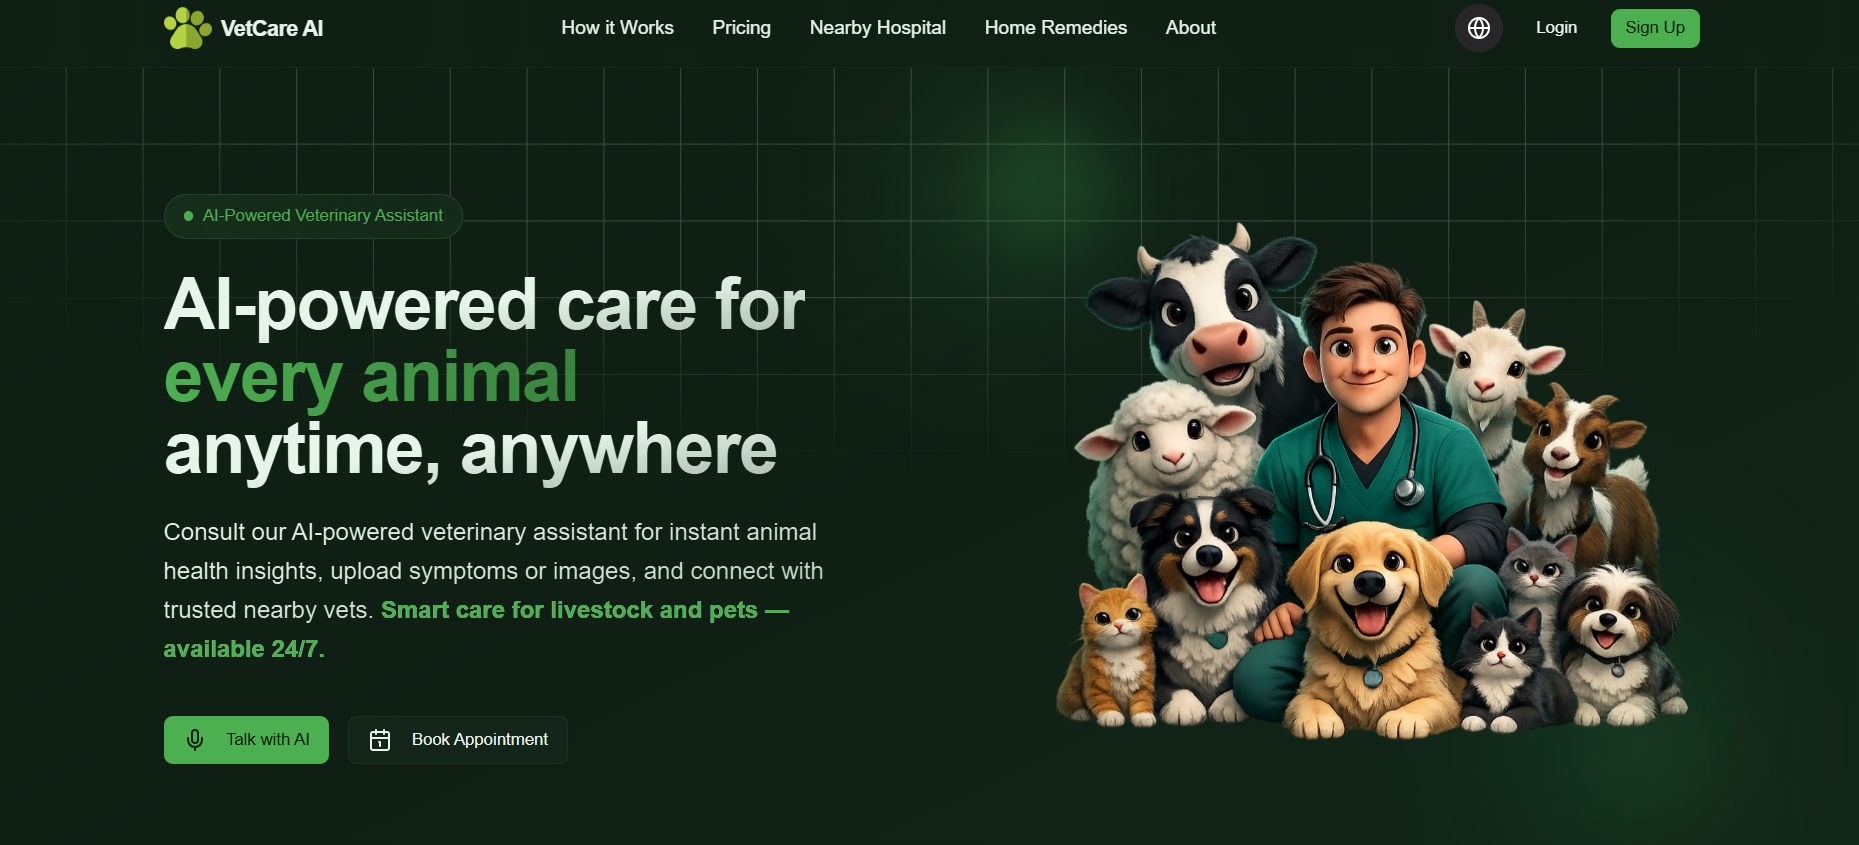
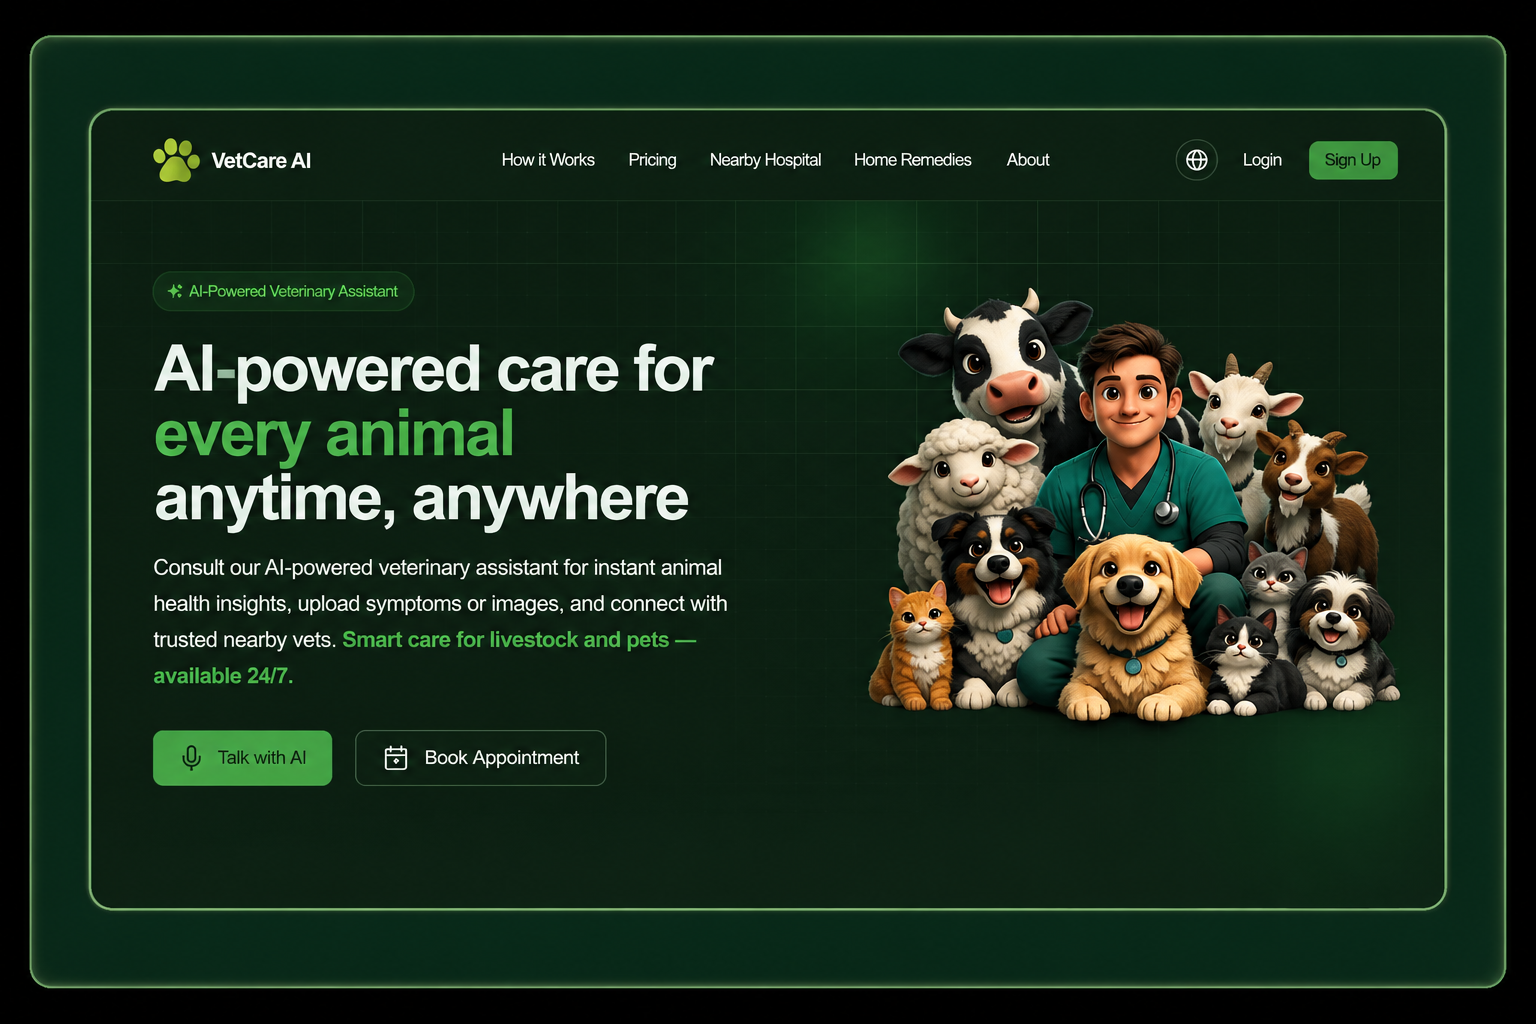
feat: add new projects to portfolio and integrate typewriter effect in Hero component

diff --git a/src/components/Hero.jsx b/src/components/Hero.jsx
@@ -1,69 +1,245 @@
 // src/components/Hero.jsx
 
 import { useEffect, useState } from "react";
-import { styles } from "../styles";
+import { useTypewriter, Cursor } from "react-simple-typewriter";
+import { ArrowUpRight, Download } from "lucide-react";
 
 const Hero = () => {
-  
-  const [isMobile, setIsMobile] = useState(false);
+
+  /* ================= TYPEWRITER ================= */
+
+  const [text] = useTypewriter({
+    words: [
+      "Full Stack Developer",
+      "React Engineer",
+      "AI Enthusiast",
+      
+    ],
+    loop: true,
+    typeSpeed: 30,
+    deleteSpeed: 10,
+    delaySpeed: 10,
+  });
+
+  /* ================= JSON ================= */
+
+  const jsonContent = `{
+  "name": "Abhay",
+  "role": "Full Stack Dev",
+  "stack": ["React", "Next", "Node],
+  "focus": "AI + Vibe Coding",
+  "status": "Available"
+}`;
+
+  const [typedJson, setTypedJson] = useState("");
+
+  /* ================= JSON TYPING ================= */
 
   useEffect(() => {
-    const mediaQuery = window.matchMedia("(max-width: 768px)");
-    setIsMobile(mediaQuery.matches);
 
-    const handleResize = (event) => setIsMobile(event.matches);
-    mediaQuery.addEventListener("change", handleResize);
+    let index = 0;
 
-    return () => mediaQuery.removeEventListener("change", handleResize);
+    const startTyping = () => {
+
+      const interval = setInterval(() => {
+
+        setTypedJson(jsonContent.substring(0, index));
+
+        index++;
+
+        if (index > jsonContent.length) {
+
+          clearInterval(interval);
+
+          setTimeout(() => {
+
+            index = 0;
+            setTypedJson("");
+
+            startTyping();
+
+          }, 1800);
+        }
+
+      }, 30);
+    };
+
+    startTyping();
+
   }, []);
 
   return (
-    <section className="relative w-full h-screen mx-auto">
-      <div
-        className={`absolute inset-0 top-[100px] max-w-7xl mx-auto ${styles.paddingX} flex flex-col sm:flex-row items-start gap-5`}
-      >
-        {/* Left Line */}
-        <div className="flex flex-col justify-center items-center mt-51">
-          <div className="w-5 h-5 rounded-full bg-[#915EFF]" />
-          <div className="w-1 sm:h-80 h-40 violet-gradient" />
-        </div>
 
-        {/* Text + Buttons */}
-        <div className="flex flex-col gap-4 mb-6 sm:mb-0">
-          <div>
-           <h1 className={`${styles.heroHeadText} text-white leading-tight`}>
-  <span className="whitespace-nowrap">
-    Hi, I'm <span className="text-[#915EFF]">Abhay</span>
-  </span>
-  <br />
-  <span className="text-[#915EFF] block">Kumar Yadav</span>
-</h1>
+    <section className="relative min-h-screen overflow-hidden bg-[#030014] text-white">
 
+      {/* ================= BACKGROUND ================= */}
 
-            <p className={`${styles.heroSubText} mt-4 text-white-100`}>
-              Full-Stack Developer
-              <br className="sm:block hidden" />
+      <div className="absolute inset-0 overflow-hidden">
+
+        {/* GRID */}
+        <div className="absolute inset-0 bg-[linear-gradient(to_right,#ffffff05_1px,transparent_1px),linear-gradient(to_bottom,#ffffff05_1px,transparent_1px)] bg-[size:55px_55px]" />
+
+        {/* GLOW */}
+        <div className="absolute top-[-10%] left-[-10%] h-[420px] w-[420px] rounded-full bg-cyan-500/10 blur-[130px]" />
+
+        <div className="absolute bottom-[-10%] right-[-10%] h-[420px] w-[420px] rounded-full bg-[#915EFF]/15 blur-[130px]" />
+
+        {/* PARTICLES */}
+        {[...Array(25)].map((_, i) => (
+          <span
+            key={i}
+            className="absolute h-[2px] w-[2px] rounded-full bg-cyan-300/60 animate-pulse"
+            style={{
+              top: `${Math.random() * 100}%`,
+              left: `${Math.random() * 100}%`,
+            }}
+          />
+        ))}
+      </div>
+
+      {/* ================= MAIN ================= */}
+
+      <div className="relative z-10 mx-auto flex min-h-screen max-w-7xl flex-col items-center justify-center gap-16 px-6 py-24 lg:flex-row">
+
+        {/* ================= LEFT ================= */}
+
+        <div className="flex-1 text-center lg:text-left">
+
+          {/* BADGE */}
+          <div className="mb-6 inline-flex items-center gap-2 rounded-full border border-cyan-400/20 bg-cyan-400/5 px-4 py-2 backdrop-blur-xl">
+
+            <span className="h-2 w-2 rounded-full bg-cyan-400 animate-pulse" />
+
+            <p className="text-[10px] sm:text-[11px] uppercase tracking-[0.3em] text-cyan-300">
+              AVAILABLE FOR WORK
             </p>
           </div>
 
-          {/* Buttons */}
-          <div>
+          {/* HEADING */}
+        <h1 className="text-5xl sm:text-6xl md:text-7xl font-black leading-[0.95] tracking-[-3px]">
+
+  <span className="block text-zinc-500 text-2xl sm:text-3xl md:text-4xl font-medium mb-3">
+    Hi, I'm
+  </span>
+
+  <span className="bg-gradient-to-r from-white via-zinc-200 to-zinc-500 bg-clip-text text-transparent">
+    Abhay
+  </span>{" "}
+
+  <span className="bg-gradient-to-r from-zinc-300 via-zinc-500 to-zinc-700 bg-clip-text text-transparent">
+    Kumar Yadav
+  </span>
+
+</h1>
+
+          {/* TYPEWRITER */}
+          <div className="mt-6 flex items-center justify-center gap-2 lg:justify-start">
+
+            <span className="h-2 w-2 rounded-full bg-cyan-400 animate-pulse" />
+
+            <p className="font-mono text-base sm:text-lg text-zinc-300">
+
+              {text}
+
+              <Cursor cursorColor="#22d3ee" />
+            </p>
+          </div>
+
+          {/* SHORT DESC */}
+          <p className="mt-5 max-w-md mx-auto text-sm leading-7 text-zinc-400 lg:mx-0">
+            Modern web apps, immersive UI, and scalable AI experiences.
+          </p>
+
+          {/* BUTTONS */}
+          <div className="mt-10 flex flex-wrap items-center justify-center gap-4 lg:justify-start">
+
+            {/* BUTTON */}
             <button
-              className="mt-3 w-fit px-6 py-2 pb-3 mb-4 bg-gradient-to-r from-[#915EFF] to-[#5B2EFF] text-white font-medium rounded-xl shadow-lg hover:scale-105 transition-transform duration-300 hover:shadow-2xl"
+              className="group relative overflow-hidden rounded-2xl bg-gradient-to-r from-cyan-500 to-blue-600 px-6 sm:px-7 py-3.5 text-sm font-semibold text-white shadow-[0_0_40px_rgba(34,211,238,0.35)] transition-all duration-300 hover:scale-105"
               onClick={() =>
                 window.open("mailto:[email redacted]", "_blank")
               }
             >
-              Hire Me
+
+              <div className="absolute inset-0 translate-x-[-100%] bg-white/20 transition-transform duration-1000 group-hover:translate-x-[100%]" />
+
+              <span className="relative flex items-center gap-2">
+                Let's Talk
+                <ArrowUpRight size={18} />
+              </span>
             </button>
 
-            <a href="/resume.pdf" target="_blank" rel="noopener noreferrer">
-              <button
-                className="mt-3 w-fit px-6 py-2 pb-3 ml-5 mb-4 bg-gradient-to-r from-[#915EFF] to-[#5B2EFF] text-white font-medium rounded-xl shadow-lg hover:scale-105 transition-transform duration-300 hover:shadow-2xl"
-              >
-                Resume
+            {/* RESUME */}
+            <a
+              href="/resume.pdf"
+              target="_blank"
+              rel="noopener noreferrer"
+            >
+
+              <button className="rounded-2xl border border-white/10 bg-white/[0.04] px-6 sm:px-7 py-3.5 text-sm font-semibold text-zinc-200 backdrop-blur-xl transition-all duration-300 hover:border-cyan-400/40 hover:bg-cyan-400/10">
+
+                <span className="flex items-center gap-2">
+                  Resume
+                  <Download size={18} />
+                </span>
               </button>
             </a>
+          </div>
+        </div>
+
+        {/* ================= RIGHT ================= */}
+
+        <div className="relative flex flex-1 items-center justify-center w-full">
+
+          {/* GLOW */}
+          <div className="absolute h-[400px] w-[400px] rounded-full bg-cyan-500/10 blur-[120px]" />
+
+          {/* CARD */}
+          <div className="relative w-full max-w-[520px] overflow-hidden rounded-[30px] border border-white/10 bg-black/70 backdrop-blur-2xl shadow-[0_0_80px_rgba(0,255,255,0.08)] transition-all duration-500 hover:-translate-y-2">
+
+            {/* TOPBAR */}
+            <div className="flex items-center gap-2 border-b border-white/10 bg-black/80 px-5 py-4">
+
+              <div className="h-3 w-3 rounded-full bg-[#ff5f56]" />
+              <div className="h-3 w-3 rounded-full bg-[#ffbd2e]" />
+              <div className="h-3 w-3 rounded-full bg-[#27c93f]" />
+
+              <p className="ml-4 text-[10px] sm:text-[11px] uppercase tracking-[0.35em] text-zinc-500">
+                developer.json
+              </p>
+            </div>
+
+            {/* CONTENT */}
+            <div className="relative min-h-[280px] sm:min-h-[320px] overflow-hidden bg-black/90 p-6 sm:p-8">
+
+              {/* SIDE GLOW */}
+              <div className="absolute left-0 top-0 h-full w-[2px] bg-gradient-to-b from-cyan-400 via-blue-500 to-purple-500" />
+
+              {/* TERMINAL GLOW */}
+              <div className="absolute inset-0 bg-[radial-gradient(circle_at_top_right,rgba(34,211,238,0.06),transparent_40%)]" />
+
+              {/* JSON */}
+              <pre className="relative z-10 whitespace-pre-wrap break-words font-mono text-[13px] sm:text-[15px] leading-7 sm:leading-8 text-[#7dd3fc]">
+
+                {typedJson}
+
+                <span className="animate-pulse text-cyan-300">|</span>
+
+              </pre>
+            </div>
+
+            {/* BOTTOM GLOW */}
+            <div className="absolute bottom-0 left-0 h-[2px] w-full bg-gradient-to-r from-transparent via-cyan-400 to-transparent" />
+          </div>
+
+          {/* FLOATING STATUS */}
+          <div className="absolute -bottom-5 left-0 sm:left-4 rounded-2xl border border-white/10 bg-black/60 px-4 py-3 backdrop-blur-xl">
+
+            <p className="font-mono text-[11px] sm:text-xs text-zinc-300">
+
+              <span className="text-cyan-400">&gt;</span> System Online
+
+            </p>
           </div>
         </div>
       </div>

diff --git a/src/constants/index.js b/src/constants/index.js
@@ -120,7 +120,19 @@ const projects = [
    image: vetcareai,
     source_code_link: "https://vet-care-ai.vercel.app/",
   },
-
+ {
+    name: "Nagar-Sahayata Portal",
+    description:
+      "• Civic complaint management system\n• Role-based dashboards\n• Issue tracking & resolution\n• Built using MERN stack",
+    tags: [
+      { name: "react", color: "blue-text-gradient" },
+      { name: "nodejs", color: "green-text-gradient" },
+      { name: "express", color: "pink-text-gradient" },
+      { name: "mongodb", color: "orange-text-gradient" },
+    ],
+    image: sihstaff,
+    source_code_link: "https://nagar-sahayata-portal.vercel.app/",
+  },
   {
     name: "GD Arena",
     description:
@@ -174,19 +186,7 @@ const projects = [
     source_code_link: "https://github.com/abhay963/LangChat",
   },
 
-  {
-    name: "Nagar-Sahayata Portal",
-    description:
-      "• Civic complaint management system\n• Role-based dashboards\n• Issue tracking & resolution\n• Built using MERN stack",
-    tags: [
-      { name: "react", color: "blue-text-gradient" },
-      { name: "nodejs", color: "green-text-gradient" },
-      { name: "express", color: "pink-text-gradient" },
-      { name: "mongodb", color: "orange-text-gradient" },
-    ],
-    image: sihstaff,
-    source_code_link: "https://github.com/abhay963/Nagar-Sahayata-Portal",
-  },
+ 
 
   {
     name: "Resume Analyzer",